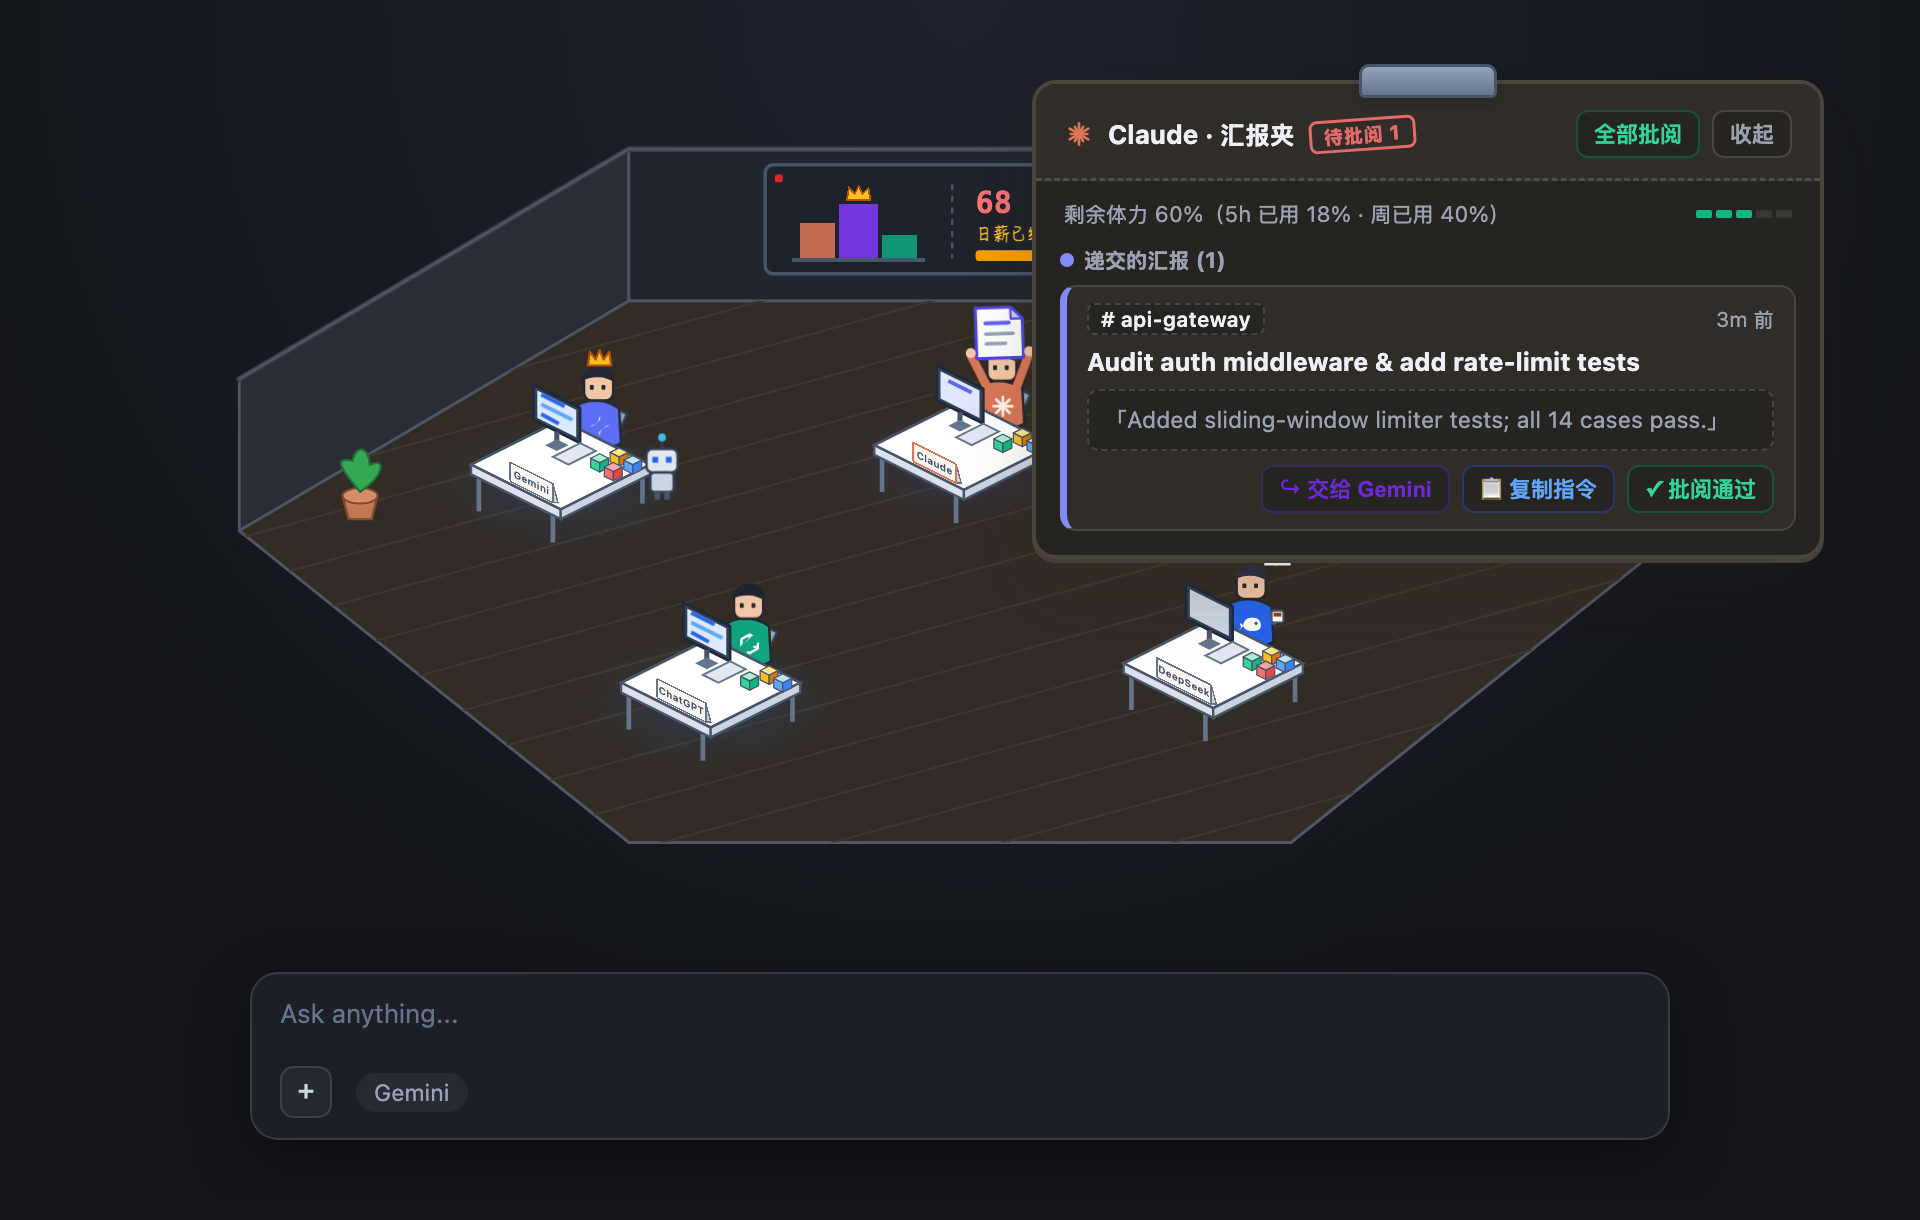
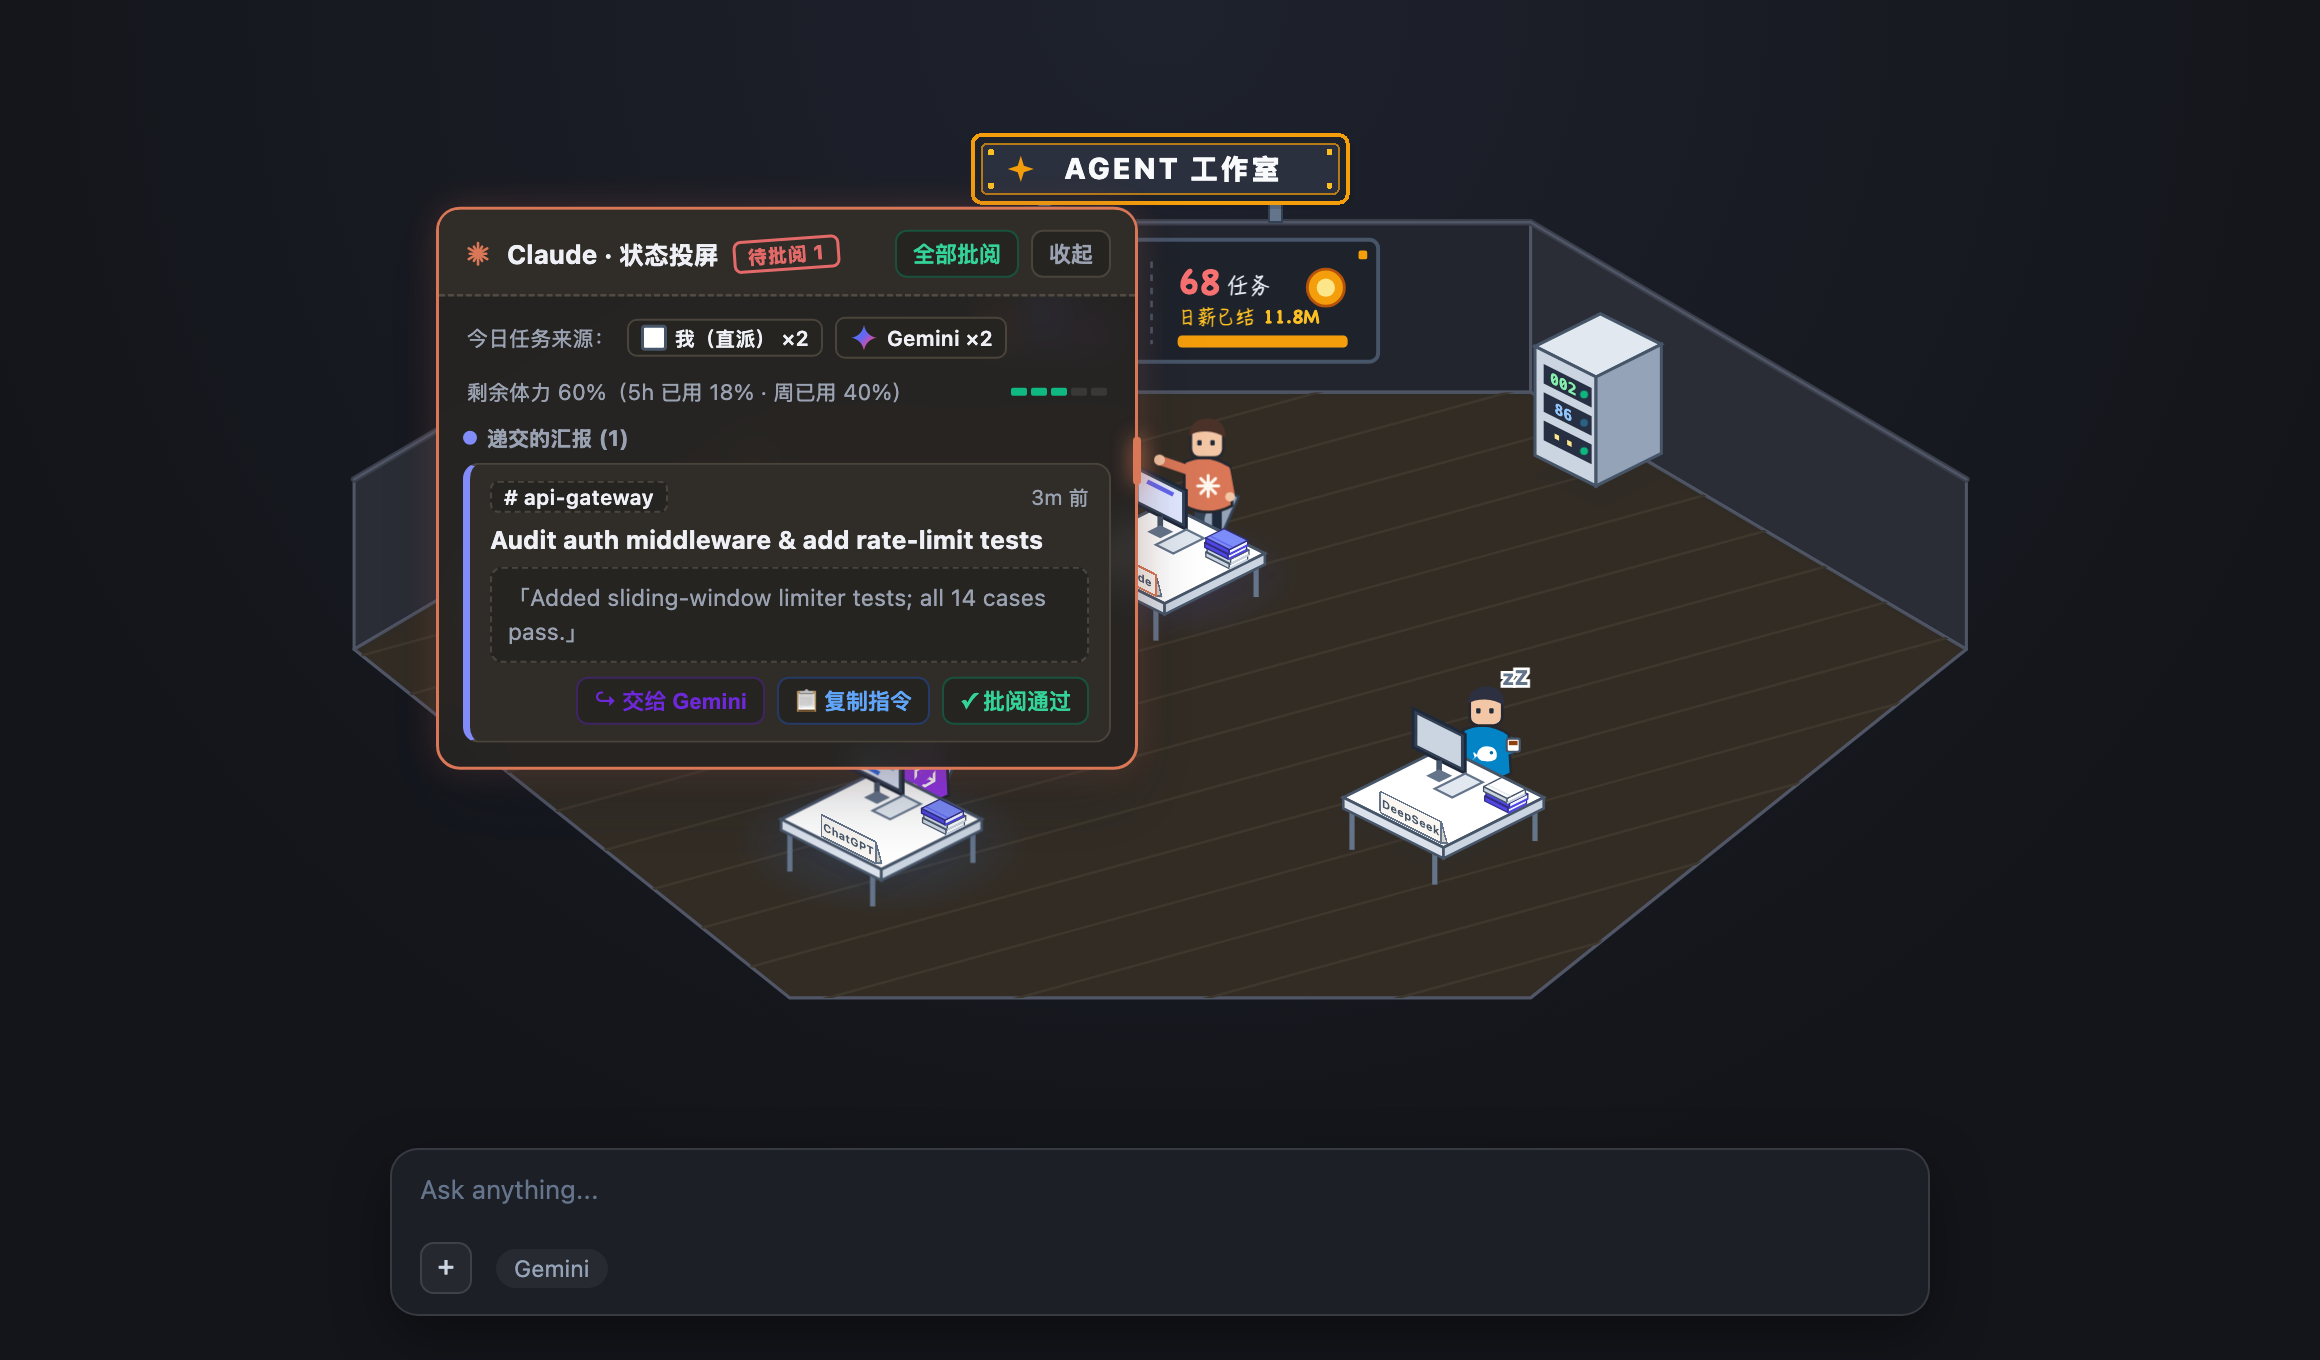
docs: update READMEs and refresh pixel office screenshot

diff --git a/README.md b/README.md
@@ -20,9 +20,10 @@ English | [简体中文](README.zh-CN.md)
 
 ## Features
 
-- 🏢 **2.5D Pixel Agent Office** — Turns the Antigravity New Conversation page into an interactive isometric studio with 4 agent workstations (**Gemini**, **Claude**, **ChatGPT**, **DeepSeek**), a corner server rack for background tasks, and a live wall leaderboard.
-- 📬 **Briefing Dossier & One-Click Handoff** — Click any workstation to inspect active/unread tasks, copy resume commands (`claude --resume` / `codex resume`), mark items as reviewed, or hand off context directly into the Antigravity composer.
-- 🟢 **Context Remaining Ring** — Injects a clean, non-intrusive context-remaining ring right beside the composer `+` (*Add context*) button.
+- 🏢 **2.5D Pixel Agent Office** — Hides the native home greeting/logo clutter and mounts an isometric **AGENT 工作室** studio on the New Conversation page with 4 agent workstations (**Gemini**, **Claude**, **ChatGPT**, **DeepSeek**), subagent helper bots, a 3-blade corner server rack (`00N` background tasks, Colab CU readout, pixel cat eyes), and a live wall leaderboard.
+- 🖥 **Holographic Status Projection & One-Click Handoff** — Click an active/unread agent and they stand up pointing to a floating holographic status screen (`状态投屏`): inspect tasks, copy resume commands (`claude --resume` / `codex resume`), mark items reviewed, or hand off context directly into the Antigravity composer (click outside or press `Esc` to close; cross-agent delegated sub-tasks animate as working without polluting unread).
+- 📚 **Daily Dispatch Book Stacks** — Color-coded isometric books stacked on each desk visualize today's task dispatches by source (direct user prompts vs cross-agent dispatches, resetting daily at `00:00`).
+- 🟢 **Flicker-Free Context Remaining Ring** — Injects a clean context-remaining ring right beside the composer `+` (*Add context*) button with live draft-token estimation while typing and smooth same-frame updates.
 - 🌿 **Compact Sidebar Branch Icon** — Collapses the second-line git branch/worktree label in sidebar conversation rows into a crisp `13x13` branch icon.
 - ⚡ **Local Speed Sample Export** — Writes completed generation samples (`id`, `model`, `outputTokens`, `ttft`, `stream`, `completedAt`) locally to `~/.config/howmanyusage/agy-speed.json`.
 
@@ -34,8 +35,8 @@ English | [简体中文](README.zh-CN.md)
 |---|---|---|
 | **Claude Code** | `~/.claude/projects` | Live & recent Claude sessions on the Claude desk |
 | **Codex CLI** | `~/.codex/sessions` | Live & recent Codex threads on the ChatGPT desk |
-| **DSH** | `~/.agents/skills/dsh-session-bridge` | DSH sessions on the DeepSeek desk |
-| **[HowManyUsage](https://github.com/rockcli/howmanyusage)** | `~/.config/howmanyusage/{usage-history.json,state.json}` | Desk stamina blocks, strike alerts, Colab CU on the server rack, and live wall leaderboard |
+| **DSH** | `~/.dsh` & `dsh-session-bridge` | DSH sessions on the DeepSeek desk |
+| **[HowManyUsage](https://github.com/rockcli/howmanyusage)** | `~/.config/howmanyusage/{usage-history.json,state.json}` | In-screen stamina bar, quota-exhaustion strike alerts, Colab CU on the server rack, and live wall leaderboard |
 
 > Note: The in-app Pixel Agent Office UI copy is currently in Simplified Chinese.
 

diff --git a/README.zh-CN.md b/README.zh-CN.md
@@ -20,9 +20,10 @@
 
 ## 核心特性
 
-- 🏢 **2.5D 像素 Agent 办公室** — 将 Antigravity 的新对话首页改造成等距像素办公室，实时展示 **Gemini**、**Claude**、**ChatGPT**、**DeepSeek** 四个工位状态、角落机房后台任务，以及墙面销冠榜。
-- 📬 **汇报夹与一键交接** — 点击任意工位可查看进行中/待批阅任务，一键复制续写命令（`claude --resume` / `codex resume`）、标记已批阅，或把上下文直接填入 Antigravity 输入框继续处理。
-- 🟢 **上下文余量指示环** — 在输入框 `+`（Add context）按钮旁注入极简上下文余量圆环，不占用额外空间。
+- 🏢 **2.5D 像素 Agent 办公室** — 挂载新对话首页时自动隐藏原生大 Logo 与招呼语，呈现等距 **AGENT 工作室** 像素办公室，实时展示 **Gemini**、**Claude**、**ChatGPT**、**DeepSeek** 四个工位状态、子代理小助手、3 格机房服务器（`00N` 后台任务、Colab CU 读数、眨眼小像素眼）及墙面销冠榜。
+- 🖥 **全息状态投屏与一键交接** — 点击忙碌或待批阅小人时，小人会起身指向身侧悬浮的「状态投屏」：可查看任务明细、一键复制续写命令（`claude --resume` / `codex resume`）、标记已批阅，或把上下文直接填入 Antigravity 输入框继续处理（点击窗外任意位置或按 `Esc` 收起；跨 Agent 派发的子任务仅在忙碌时展示工作动画，不污染待批阅列表）。
+- 📚 **每日派单任务书摞** — 桌面以不同配色的等距书本堆叠展示今日任务来源（本人直派与各 Agent 跨路派单，每日 `00:00` 自动清零）。
+- 🟢 **无闪烁上下文余量指示环** — 在输入框 `+`（Add context）按钮旁注入极简上下文余量圆环，支持输入草稿时的实时 Token 估算及同帧无闪烁更新。
 - 🌿 **侧边栏分支精简图标** — 收起侧边栏对话行第二行的分支/worktree 文字，仅保留紧凑的 `13x13` 分支图标。
 - ⚡ **本地测速采样导出** — 纯本地记录每次生成的测速样本（`id`、`model`、`outputTokens`、`ttft`、`stream`、`completedAt`）至 `~/.config/howmanyusage/agy-speed.json`。
 
@@ -34,8 +35,8 @@
 |---|---|---|
 | **Claude Code** | `~/.claude/projects` | 在 Claude 工位展示近期/运行中会话 |
 | **Codex CLI** | `~/.codex/sessions` | 在 ChatGPT 工位展示近期/运行中线程 |
-| **DSH** | `~/.agents/skills/dsh-session-bridge` | 在 DeepSeek 工位展示 DSH 会话 |
-| **[HowManyUsage](https://github.com/rockcli/howmanyusage)** | `~/.config/howmanyusage/{usage-history.json,state.json}` | 桌面体力积木、额度耗尽罢工提醒、机房 Colab CU 与墙面实时销冠榜 |
+| **DSH** | `~/.dsh` 与 `dsh-session-bridge` | 在 DeepSeek 工位展示 DSH 会话 |
+| **[HowManyUsage](https://github.com/rockcli/howmanyusage)** | `~/.config/howmanyusage/{usage-history.json,state.json}` | 投屏内体力条、额度耗尽罢工提醒、机房 Colab CU 与墙面实时销冠榜 |
 
 ## 快速开始
 
